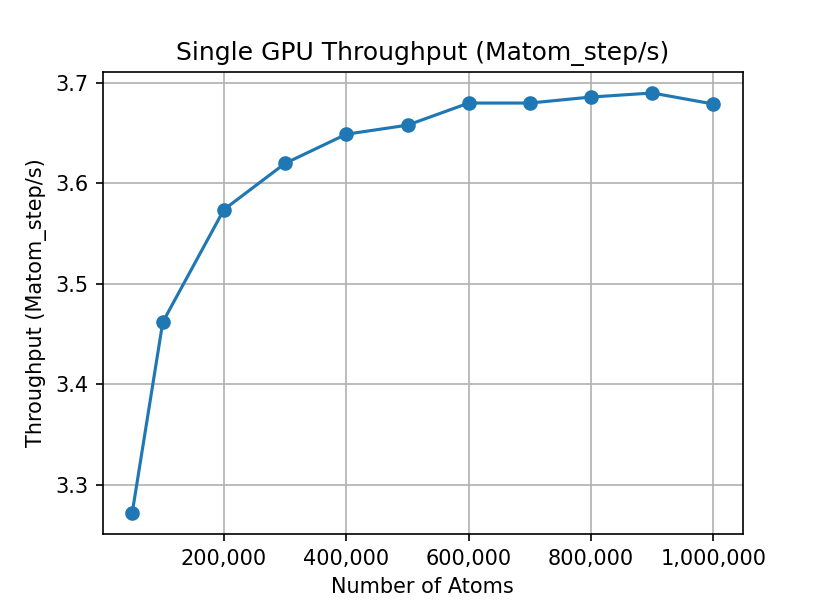
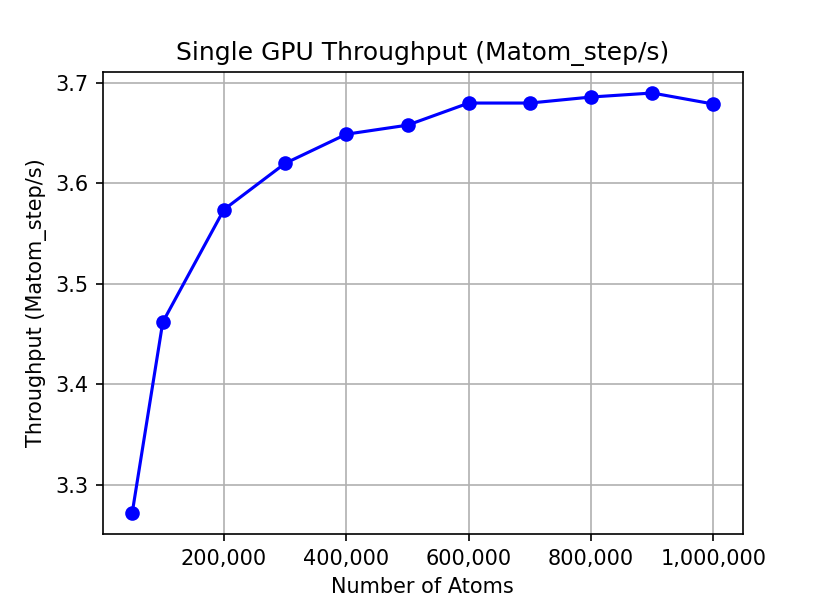
quick save

diff --git a/examples/benchmark/log_water_saturation/plot.py b/examples/benchmark/log_water_saturation/plot.py
@@ -9,7 +9,7 @@ df = pd.read_csv('all.csv')
 plt.figure(figsize=(5.5, 4), dpi=150)
 
 # Plot Timesteps/s vs Number of GPUs for the 44M atom system
-plt.plot(df['atoms'], df['Matom_step/s'], 'o-')
+plt.plot(df['atoms'], df['Matom_step/s'], 'o-', color="blue")
 
 plt.xlabel('Number of Atoms')
 plt.ylabel('Throughput (Matom_step/s)')
